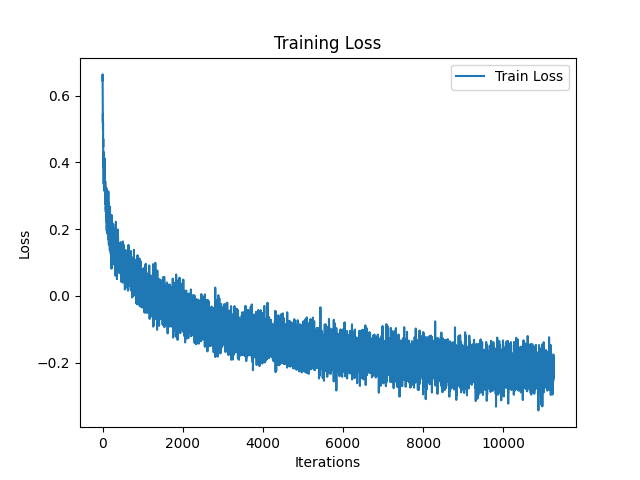
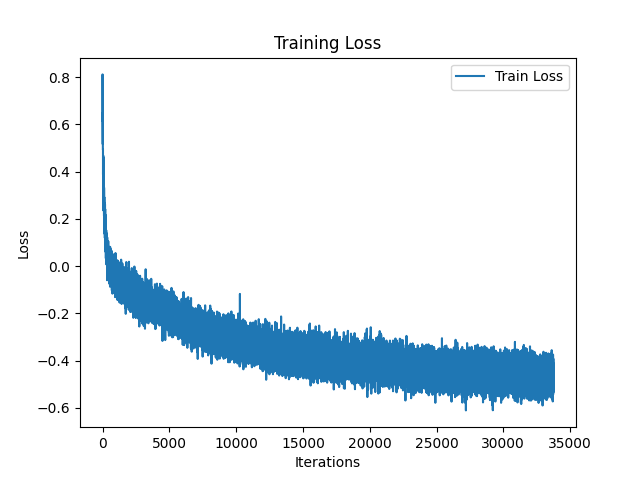
Additional figs and transform for extracting features

diff --git a/src/utils.py b/src/utils.py
@@ -678,6 +678,7 @@ def extract_clip_features(
         target="both",
         save=False,
         workers=12,
+        use_transform=True,
 ):
     """
     Extract CLIP features for the dataset.
@@ -689,34 +690,36 @@ def extract_clip_features(
 
     # Dataloader
     if dl is None:
+        if use_transform:
+            transforms_ = get_transform(split)
+        else:
+            transforms_ = preprocess
+        # Get the dataloader
         dl = get_loader(
             experiment=experiment,
             split=split,
-            transforms=preprocess,
+            transforms=transforms_,
             workers=workers,
             ds_frac=ds_frac,
             target=target
         )
     
     features = []
-    labels = []
     # Get the features
     with torch.no_grad():
         for data in tqdm.tqdm(dl, desc="Extracting features"):
-            images, label = data
+            images, _ = data
             images = images.to(device)
             feature = model.encode_image(images)
             features.append(feature.to(device))
-            labels.append(label.to(device))
         features = torch.cat(features, dim=0).cpu()
-        labels = torch.cat(labels, dim=0).cpu()
 
     if save:
         os.makedirs(f"{experiment['featpath']}/{split}/{'_'.join(experiment['classes'])}/{target}", exist_ok=True)
         torch.save(features, f"{experiment['featpath']}/{split}/{'_'.join(experiment['classes'])}/{target}/features.pt")
         print("Saved features to", f"{experiment['featpath']}/{split}/{'_'.join(experiment['classes'])}/{target}/features.pt")
 
-    return features, labels
+    return features
 
 def get_feature_loader(
         experiment, split, workers, ds_frac=None, target="both"
@@ -820,7 +823,7 @@ def train_flow_experiment(
                     features, labels = data
                     features, labels = features.float().to(device), labels.to(device)
                     log_probs = model.log_prob(features)
-                    y_pred = torch.exp(log_probs) < 0.005
+                    y_pred = log_probs < np.log(0.0001)
                     val_loss -= log_probs.mean().item()
                     y_true.extend(labels.cpu().numpy().tolist())
                     y_score.extend(y_pred.cpu().numpy().tolist())

diff --git a/scripts/feature_extraction.py b/scripts/feature_extraction.py
@@ -4,12 +4,14 @@ import torch
 import clip
 
 MAIN_DIR = "/mnt/personal/babicdom"
+FEAT_PATH = f"results/transform_features"
 
 splits = ["train", "val"]
 device = "cuda:0" if torch.cuda.is_available() else "cpu"
 model, preprocess = clip.load('ViT-L/14', device=device)
 workers = 12
 ds_frac = 1
+use_transform = True
 
 for split in splits:
     all_classes = os.listdir(f"{MAIN_DIR}/data/{split}/")
@@ -19,7 +21,7 @@ for split in splits:
                 "training_set": "progan",
                 "classes": [cls],
                 "batch_size": 32,
-                "featpath": "results/features",
+                "featpath": FEAT_PATH,
         }
         print(f"\tExtracting features for {experiment['classes']}")
         
@@ -32,19 +34,30 @@ for split in splits:
                 ds_frac=ds_frac,
                 device=device,
                 target=target,
-                save=True
+                save=True,
+                use_transform=use_transform,
             )
 
 for target in ["real", "fake"]:
     experiment = {
                 "training_set": "progan",
                 "batch_size": 32,
-                "featpath": "results/features",
+                "featpath": FEAT_PATH,
         }
+    if use_transform:
+        transforms = get_transform(
+            experiment=experiment,
+            split="test",
+            ds_frac=ds_frac,
+            target=target,
+            use_transform=True
+        )
+    else:
+        transforms = preprocess
     test_loader = get_loader(
             experiment=experiment,
             split="test",
-            transforms=preprocess,
+            transforms=transforms,
             workers=workers,
             ds_frac=ds_frac,
             target=target

diff --git a/scripts/visualize.py b/scripts/visualize.py
@@ -29,15 +29,12 @@ def visualize_features_tsne(experiment, split="train"):
     print("Fake features shape:", fake_features.shape)
     # Concatenate the features
     combined_features = torch.cat((real_features, fake_features), dim=0)
-    scaler = StandardScaler()
-    combined_features = scaler.fit_transform(combined_features)
-    print("Scaled combined features shape:", combined_features.shape)
 
     # Apply PCA
     pca_features = PCA(n_components=50).fit_transform(combined_features)
     print("PCA features shape:", pca_features.shape)
     # Apply t-SNE
-    tsne = TSNE(n_components=2, perplexity=30, random_state=42, verbose=3)
+    tsne = TSNE(n_components=2, perplexity=30, max_iter=300, random_state=42, verbose=3)
     tsne_results = tsne.fit_transform(combined_features)
 
     # Plot the t-SNE representation
@@ -61,7 +58,7 @@ if __name__ == "__main__":
     experiment = {
         "classes": os.listdir(f"{MAIN_DIR}/data/train/"),
         "savpath": "results/visualize/tsne",
-        "featpath": "results/features",
+        "featpath": "results/old_features",
     }
     visualize_features_tsne(
         experiment=experiment,

diff --git a/scripts/flow_experiment.py b/scripts/flow_experiment.py
@@ -2,15 +2,15 @@ from src.utils import train_flow_experiment
 import torch
 import os
 
-MAIN_DIR = "/home/babicdom/SID/results/features/"
+MAIN_DIR = "/home/babicdom/SID/results/features"
 experiment = {
     "flow": "glow",
-    "num_steps": 2,
+    "num_steps": 8,
     "training_set": "progan",
     "batch_size": 32,
     "classes": os.listdir(f"{MAIN_DIR}/train"), # ["horse"], # 
-    "lr": 1e-3,
-    "epochss": [1],
+    "lr": 1e-4,
+    "epochss": [3],
     "epochs_reduce_lr": [6, 11],
     "savpath": "results/flow",
 }
